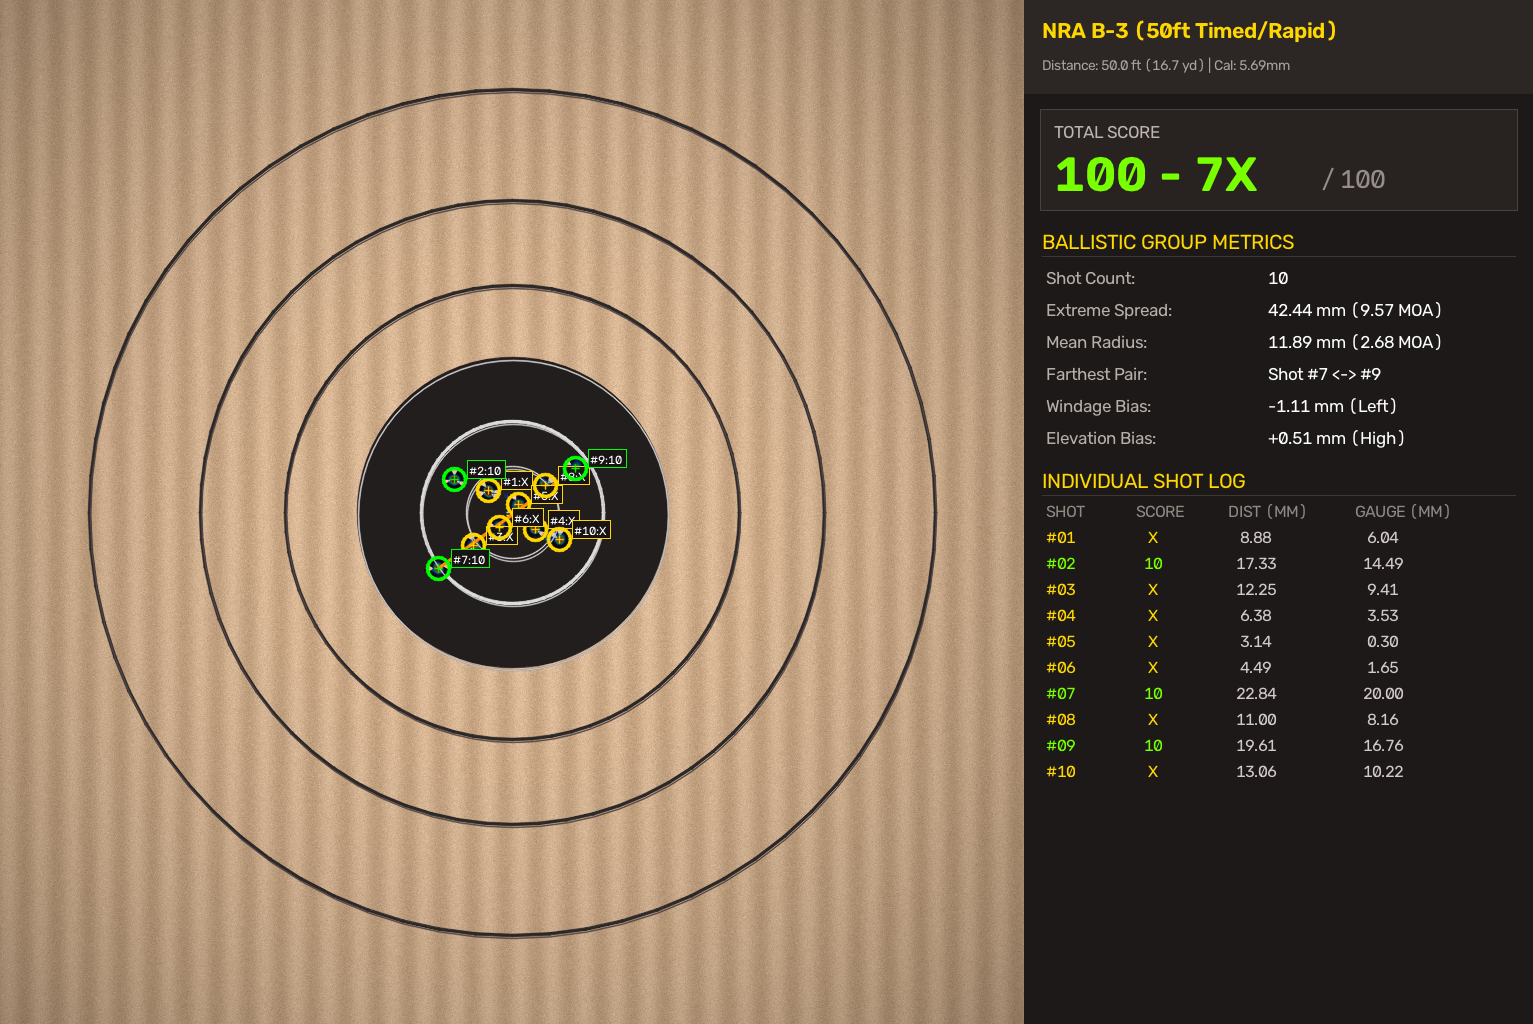
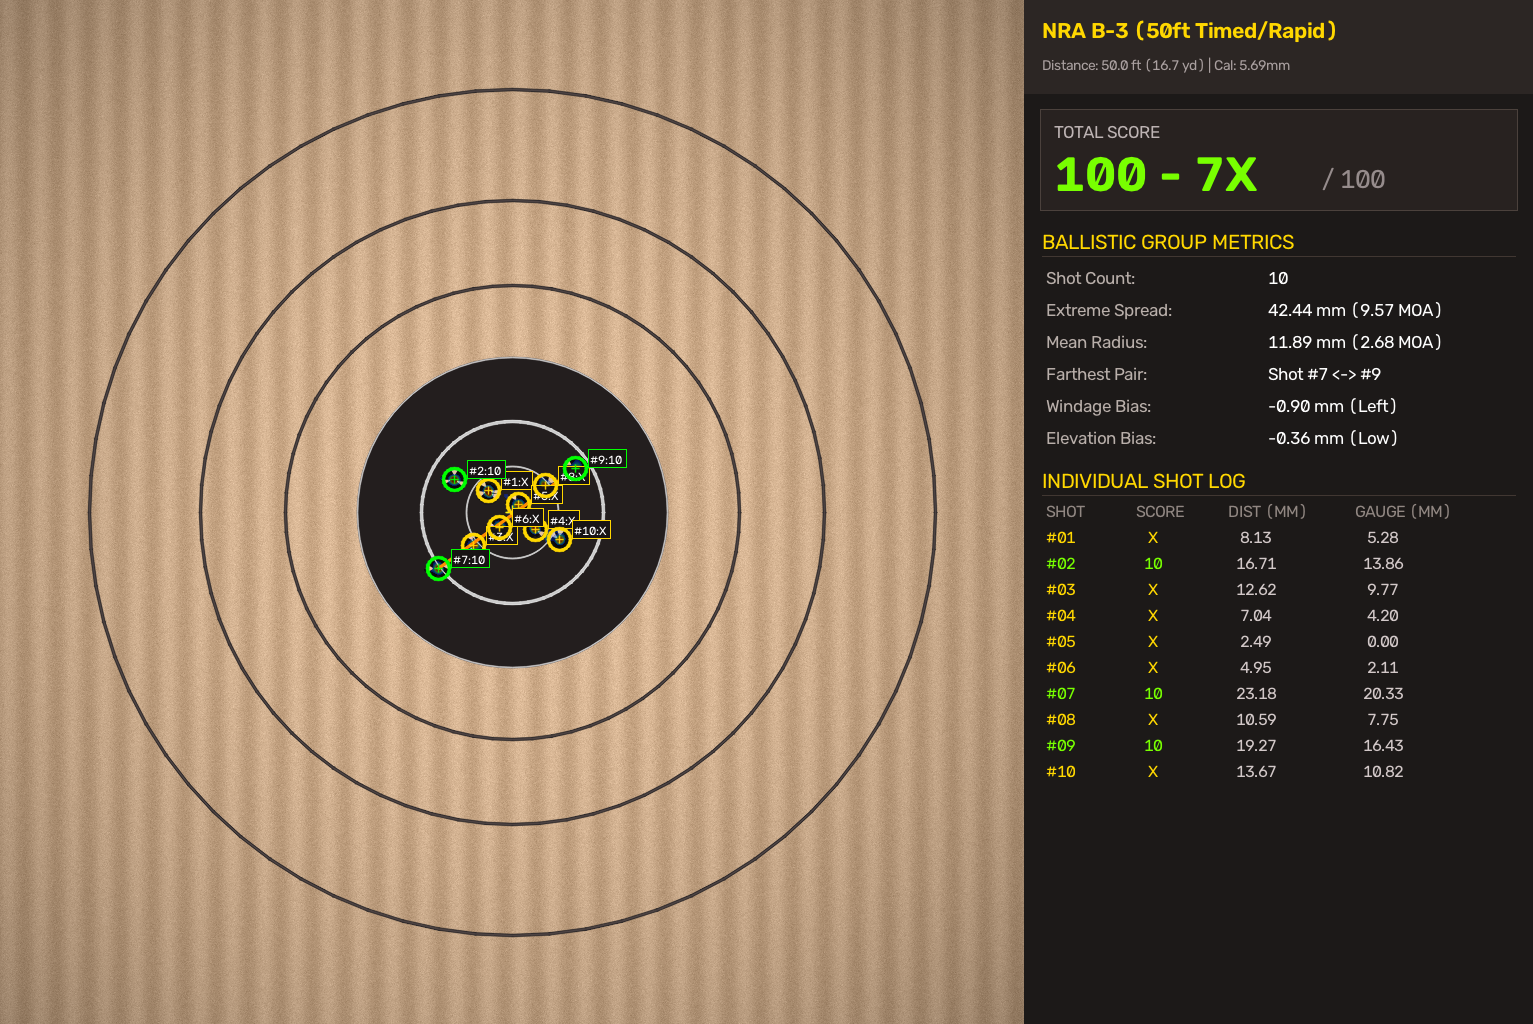
Eliminate runpy RuntimeWarning via lazy exports and ensure exact bullseye center on synthetic targets

diff --git a/src/target_scorer/__init__.py b/src/target_scorer/__init__.py
@@ -9,7 +9,6 @@ from target_scorer.config import (
     TrainConfig,
 )
 from target_scorer.geometry.rectifier import RectificationResult, TargetRectifier
-from target_scorer.infer import generate_synthetic_demo_target, run_inference_and_scoring
 from target_scorer.metrology.peaks import extract_subpixel_peaks
 from target_scorer.metrology.scoring import (
     GroupMetrics,
@@ -31,12 +30,27 @@ from target_scorer.synthetic.generator import (
     stamp_double_shot,
     stamp_keyhole_shot,
 )
-from target_scorer.train import (
-    calculate_localization_metrics,
-    run_training,
-    train_one_epoch,
-    validate_one_epoch,
-)
+
+# Lazy exports for CLI/entrypoint modules (prevents runpy duplicate import RuntimeWarning)
+_LAZY_EXPORTS = {
+    "generate_synthetic_demo_target": ("target_scorer.infer", "generate_synthetic_demo_target"),
+    "run_inference_and_scoring": ("target_scorer.infer", "run_inference_and_scoring"),
+    "run_training": ("target_scorer.train", "run_training"),
+    "train_one_epoch": ("target_scorer.train", "train_one_epoch"),
+    "validate_one_epoch": ("target_scorer.train", "validate_one_epoch"),
+    "calculate_localization_metrics": ("target_scorer.train", "calculate_localization_metrics"),
+}
+
+
+def __getattr__(name: str):
+    if name in _LAZY_EXPORTS:
+        import importlib
+        mod_name, attr_name = _LAZY_EXPORTS[name]
+        mod = importlib.import_module(mod_name)
+        val = getattr(mod, attr_name)
+        globals()[name] = val
+        return val
+    raise AttributeError(f"module '{__name__}' has no attribute '{name}'")
 
 __version__ = "0.1.0"
 

diff --git a/src/target_scorer/infer.py b/src/target_scorer/infer.py
@@ -209,7 +209,9 @@ def run_inference_and_scoring(
     # canonical geometric center (c_mid, c_mid), it has latched onto a nearby bullet hole;
     # in that case, rely on the exact geometric center.
     max_center_dev_px = 5.0 * (eff_pixels_per_mm / 4.0)
-    if bull_peaks and math.hypot(bull_peaks[0][0] - c_mid, bull_peaks[0][1] - c_mid) <= max_center_dev_px:
+    if image_path is None:
+        bullseye_center = (c_mid, c_mid)
+    elif bull_peaks and math.hypot(bull_peaks[0][0] - c_mid, bull_peaks[0][1] - c_mid) <= max_center_dev_px:
         bullseye_center = (bull_peaks[0][0], bull_peaks[0][1])
     else:
         bullseye_center = (c_mid, c_mid)
